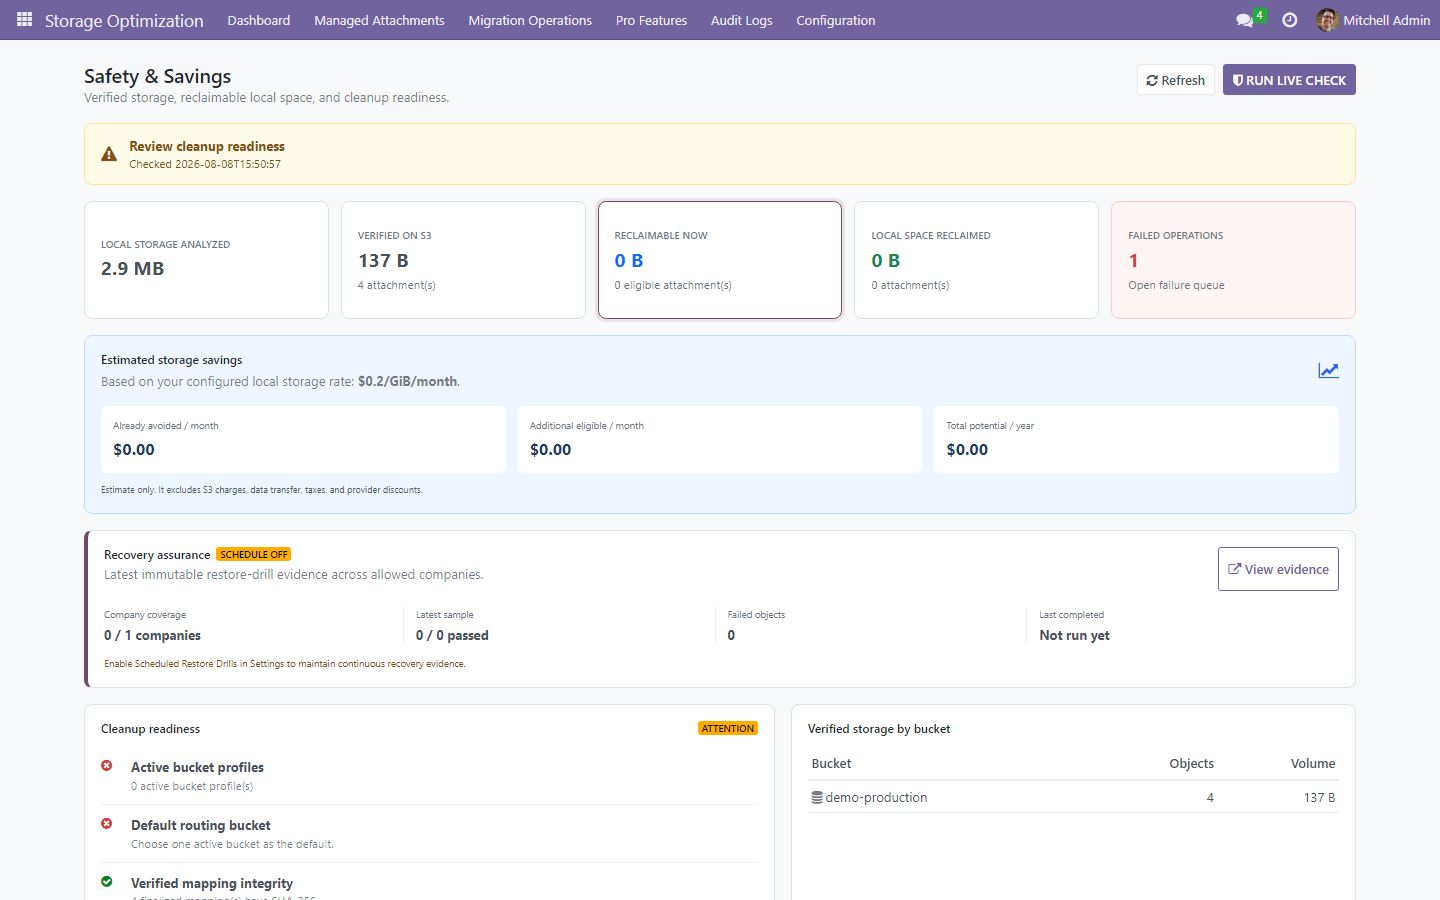
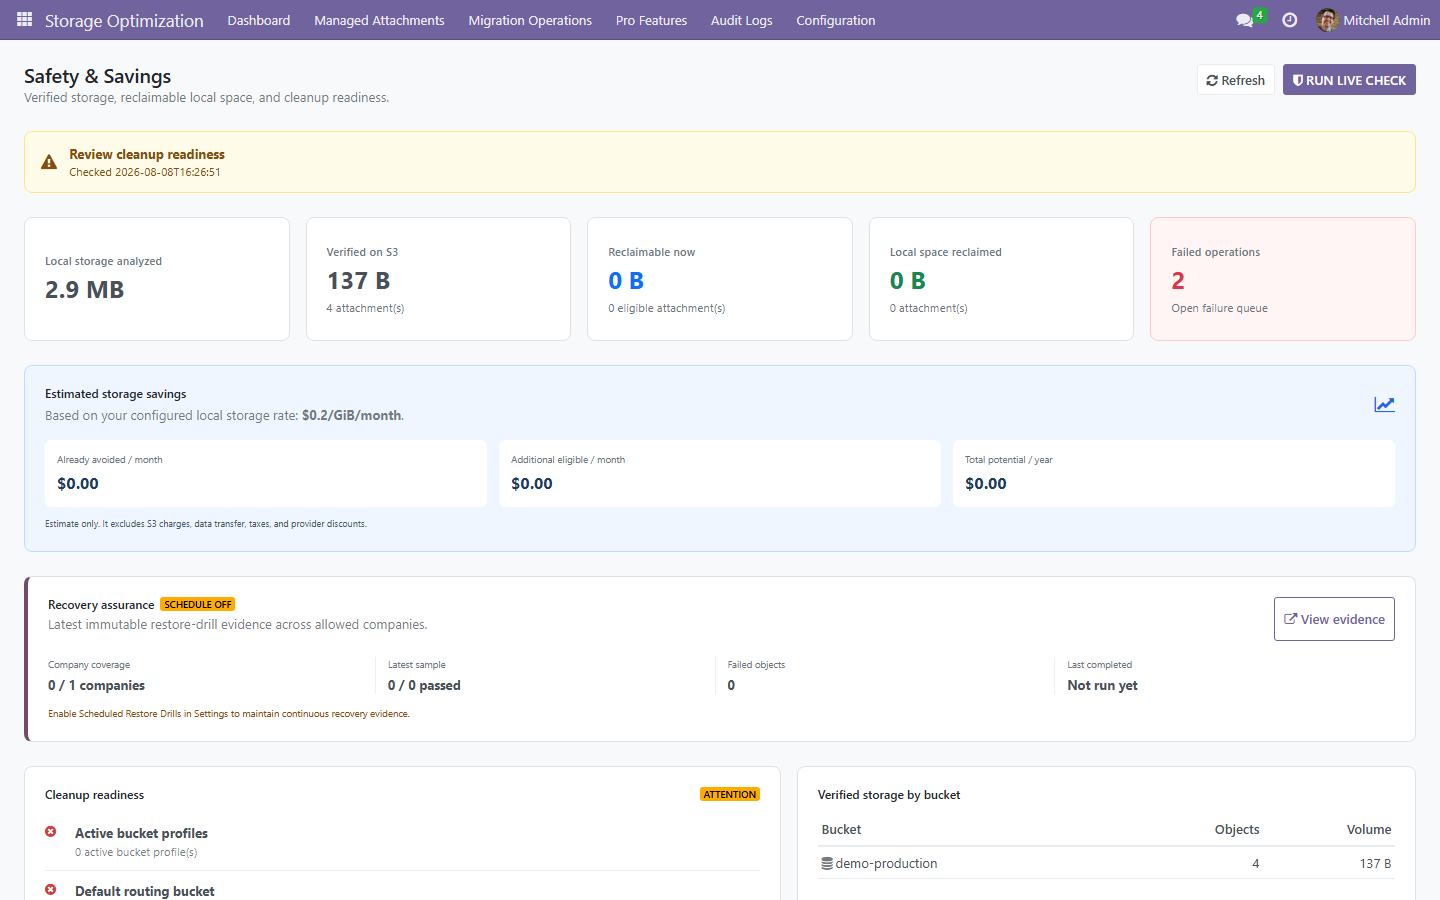
Improve Pro dashboard layout and loading state

diff --git a/attachment_optimizer_pro/static/src/components/pro_dashboard/pro_dashboard.scss b/attachment_optimizer_pro/static/src/components/pro_dashboard/pro_dashboard.scss
@@ -1,7 +1,10 @@
 .o_pro_safety_dashboard {
-    max-width: 1320px;
-    margin: 0 auto;
+    width: 100%;
+    margin: 0;
     padding: 24px;
+    box-sizing: border-box;
+    min-height: 100%;
+    position: relative;
 }
 
 .o_pro_dashboard_header,
@@ -12,7 +15,7 @@
     gap: 16px;
 }
 
-.o_pro_dashboard_header { margin-bottom: 16px; }
+.o_pro_dashboard_header { margin-bottom: 24px; }
 .o_pro_dashboard_header h2,
 .o_pro_panel_header h3 { margin: 0; }
 .o_pro_panel_header h3 { font-size: 1rem; font-weight: 600; }
@@ -25,7 +28,7 @@
     border: 1px solid;
     border-radius: 8px;
     padding: 12px 16px;
-    margin-bottom: 16px;
+    margin-bottom: 24px;
 }
 .o_pro_readiness_banner > i { font-size: 1.35rem; }
 .o_pro_ready { color: #166534; background: #f0fdf4; border-color: #bbf7d0; }
@@ -34,13 +37,13 @@
 .o_pro_kpi_grid {
     display: grid;
     grid-template-columns: repeat(5, minmax(0, 1fr));
-    gap: 12px;
-    margin-bottom: 16px;
+    gap: 16px;
+    margin-bottom: 24px;
 }
 .o_pro_kpi_card {
     min-width: 0;
-    min-height: 118px;
-    padding: 16px;
+    min-height: 124px;
+    padding: 20px;
     border: 1px solid #dee2e6;
     border-radius: 8px;
     background: var(--o-view-background-color, #fff);
@@ -50,10 +53,15 @@
     flex-direction: column;
     justify-content: center;
 }
-.o_pro_kpi_card strong { font-size: 1.6rem; line-height: 1.2; margin: 5px 0; }
+.o_pro_kpi_card strong {
+    font-size: 2rem;
+    line-height: 1.2;
+    margin: 5px 0;
+    font-variant-numeric: tabular-nums;
+}
 .o_pro_kpi_card small,
 .o_pro_kpi_label { color: var(--o-gray-600, #6c757d); }
-.o_pro_kpi_label { font-size: 0.8rem; font-weight: 600; text-transform: uppercase; letter-spacing: .03em; }
+.o_pro_kpi_label { font-size: .95rem; font-weight: 600; }
 .o_pro_kpi_action { cursor: pointer; transition: border-color .15s ease, box-shadow .15s ease; }
 .o_pro_kpi_action:hover,
 .o_pro_kpi_action:focus-visible { border-color: var(--o-brand-primary, #714b67); box-shadow: 0 0 0 3px rgba(113, 75, 103, .12); outline: 0; }
@@ -63,8 +71,8 @@
 .o_pro_kpi_danger strong { color: #dc3545; }
 
 .o_pro_savings_panel {
-    margin-bottom: 16px;
-    padding: 16px;
+    margin-bottom: 24px;
+    padding: 20px;
     border: 1px solid #bfdbfe;
     border-radius: 8px;
     background: #eff6ff;
@@ -94,8 +102,8 @@
 .o_pro_savings_metrics strong { display: block; margin-top: 4px; font-size: 1.35rem; }
 .o_pro_savings_note { color: #475569; font-size: .75rem; }
 .o_pro_assurance_panel {
-    margin-bottom: 16px;
-    padding: 16px;
+    margin-bottom: 24px;
+    padding: 20px;
     border: 1px solid #dee2e6;
     border-left: 4px solid var(--o-brand-primary, #714b67);
     border-radius: 8px;
@@ -122,12 +130,26 @@
 .o_pro_assurance_hint { margin-top: 12px; color: #854d0e; font-size: .8rem; }
 .o_pro_assurance_error { color: #b42318; }
 .o_pro_dashboard_columns { display: grid; grid-template-columns: 1.1fr .9fr; gap: 16px; }
-.o_pro_panel { background: var(--o-view-background-color, #fff); border: 1px solid #dee2e6; border-radius: 8px; padding: 16px; }
+.o_pro_panel { background: var(--o-view-background-color, #fff); border: 1px solid #dee2e6; border-radius: 8px; padding: 20px; }
 .o_pro_panel_header { align-items: center; margin-bottom: 12px; }
 .o_pro_check_list { display: flex; flex-direction: column; }
 .o_pro_check { display: grid; grid-template-columns: 20px 1fr; gap: 10px; padding: 10px 0; border-top: 1px solid #eef0f2; }
 .o_pro_check:first-child { border-top: 0; }
 .o_pro_check > i { margin-top: 2px; }
+
+.o_pro_dashboard_overlay {
+    position: absolute;
+    inset: 0;
+    z-index: 10;
+    display: flex;
+    flex-direction: column;
+    align-items: center;
+    justify-content: center;
+    min-height: 320px;
+    background: var(--o-view-background-color, #fff);
+    color: var(--o-gray-600, #6c757d);
+}
+.o_pro_dashboard_overlay p { margin: 12px 0 0; }
 
 @media (max-width: 1100px) {
     .o_pro_kpi_grid { grid-template-columns: repeat(3, minmax(0, 1fr)); }

diff --git a/attachment_optimizer_pro/static/description/index.html b/attachment_optimizer_pro/static/description/index.html
@@ -96,6 +96,6 @@ For subsequent modules, update content inside sections only. Do not alter sectio
     </div>
 
     <!-- FOOTER -->
-    <div style="border:1px solid #e2e8f0; border-radius:16px; padding:32px 24px; margin:40px 0 16px; text-align:center;"><div style="font-size:14px; font-weight:700; color:#1e293b; text-transform:uppercase;">Attachment Optimizer Pro</div><p style="font-size:13px; color:#64748b; line-height:1.6;">Automated, verified S3-compatible attachment lifecycle management for Odoo.</p><div style="display:inline-block; border:2px solid #4f46e5; color:#4f46e5; font-weight:700; font-size:13px; padding:10px 28px; border-radius:8px;">US$49 · One-Time · No Subscription</div><p style="font-size:11px; color:#94a3b8; margin:20px 0 0;">Version 16.0.1.0.16 · Built and maintained by FoxPink</p></div>
+    <div style="border:1px solid #e2e8f0; border-radius:16px; padding:32px 24px; margin:40px 0 16px; text-align:center;"><div style="font-size:14px; font-weight:700; color:#1e293b; text-transform:uppercase;">Attachment Optimizer Pro</div><p style="font-size:13px; color:#64748b; line-height:1.6;">Automated, verified S3-compatible attachment lifecycle management for Odoo.</p><div style="display:inline-block; border:2px solid #4f46e5; color:#4f46e5; font-weight:700; font-size:13px; padding:10px 28px; border-radius:8px;">US$49 · One-Time · No Subscription</div><p style="font-size:11px; color:#94a3b8; margin:20px 0 0;">Version 16.0.1.0.17 · Built and maintained by FoxPink</p></div>
   </div>
 </section>

diff --git a/attachment_optimizer_pro/__manifest__.py b/attachment_optimizer_pro/__manifest__.py
@@ -1,6 +1,6 @@
 {
     "name": "Attachment Optimizer Pro",
-    "version": "16.0.1.0.16",
+    "version": "16.0.1.0.17",
     "category": "Storage",
     "summary": "Automation, cleanup, routing and lifecycle for S3-compatible attachment storage.",
     "description": """

diff --git a/README.md b/README.md
@@ -8,7 +8,7 @@ Only update product content, version, links, compatibility status, screenshots, 
 
 ![Attachment Optimizer Pro](attachment_optimizer_pro/static/description/preview.png)
 
-**Version:** 16.0.1.0.16 -- **License:** OPL-1 -- **Publisher:** FoxPink -- Maintained for **Odoo 16.0**
+**Version:** 16.0.1.0.17 -- **License:** OPL-1 -- **Publisher:** FoxPink -- Maintained for **Odoo 16.0**
 
 ---
 
